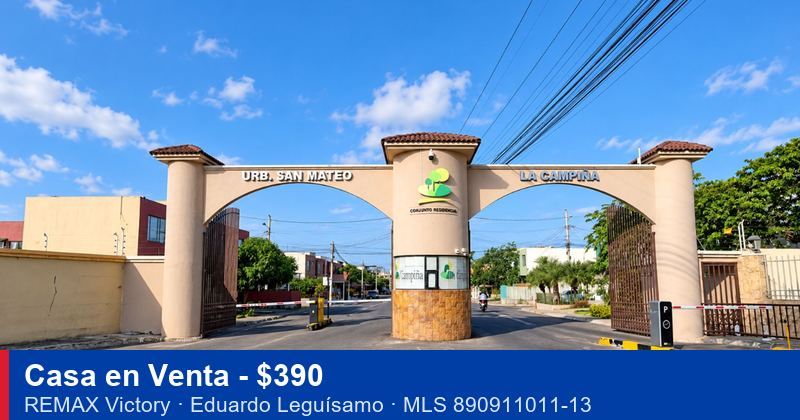
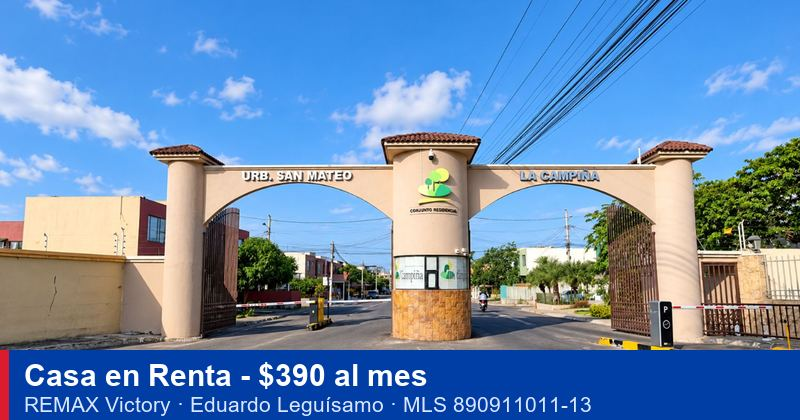
Corrige 890911011-13: es renta, no venta

Changed region(s): [[0.1875, 0.8667, 0.5312, 0.9286]]

diff --git a/fotos/890911011-13.html b/fotos/890911011-13.html
@@ -1,1 +1,1 @@
-<!DOCTYPE html><html lang="es"><head><meta charset="utf-8"><meta name="viewport" content="width=device-width, initial-scale=1"><meta name="robots" content="noindex"><title>Casa en Venta - $390 | MLS 890911011-13</title><meta property="og:type" content="website"><meta property="og:site_name" content="REMAX Victory - Eduardo Leguísamo"><meta property="og:url" content="https://remaxvictory.github.io/fotos/890911011-13"><meta property="og:title" content="📷 Fotos: Casa en Venta - $390"><meta property="og:description" content="Callejón 31 A 0, Manta, Manabí, Ecuador - 3 dorm. | 2 baños | 2 parqueos | 94 m² construcción | 94 m² terreno"><meta property="og:image" content="https://remaxvictory.github.io/img/890911011-13.jpg"><meta property="og:image:secure_url" content="https://remaxvictory.github.io/img/890911011-13.jpg"><meta property="og:image:type" content="image/jpeg"><meta property="og:image:width" content="800"><meta property="og:image:height" content="420"><meta name="twitter:card" content="summary_large_image"><meta name="description" content="Callejón 31 A 0, Manta, Manabí, Ecuador - 3 dorm. | 2 baños | 2 parqueos | 94 m² construcción | 94 m² terreno"><style>body{margin:0;font-family:Arial,Helvetica,sans-serif;background:#f4f6fa;color:#222}.cab{background:#003da5;color:#fff;padding:14px 16px;font-size:15px}.cab b{color:#fff}.w{max-width:900px;margin:auto;padding:14px}h1{font-size:21px;margin:6px 0}.dir{color:#444;margin:4px 0}.sp{margin:4px 0}.mls{color:#666;margin:4px 0}.b{display:inline-block;margin:6px 8px 6px 0;padding:12px 16px;border-radius:8px;color:#fff;text-decoration:none;font-weight:bold}.wa{background:#25d366}.pdf{background:#dc1c2e}img{width:100%;display:block;margin:0 0 8px;border-radius:6px;background:#ddd}.pie{color:#777;font-size:12px;text-align:center;padding:16px}</style></head><body><div class="cab"><b>REMAX Victory</b> - Eduardo Leguísamo, Agente Inmobiliario</div><div class="w"><h1>Casa en Venta - $390</h1><p class="dir">Callejón 31 A 0, Manta, Manabí, Ecuador</p><p class="sp">3 dorm. | 2 baños | 2 parqueos | 94 m² construcción | 94 m² terreno</p><p class="mls">MLS-ID 890911011-13</p><p><a class="b wa" href="https://wa.me/593998242588?text=Hola%20Eduardo%2C%20me%20interesa%20la%20propiedad%20MLS%20890911011-13">Escribir a Eduardo por WhatsApp</a><a class="b pdf" href="https://drive.google.com/file/d/1cyxUO9HcWFaMn1_CGEoSC2LBYryVIITM/view">Ver ficha PDF</a></p><img src="https://prod-ec-images.s3.amazonaws.com/listings/f58423a3-4ccf-48c0-87e2-bedc4b5c2aa4/original/78db6f71-6776-463d-b3e5-248f9b6588a6.jpg" loading="lazy" alt="Foto 1"><img src="https://prod-ec-images.s3.amazonaws.com/listings/f58423a3-4ccf-48c0-87e2-bedc4b5c2aa4/original/b38e66a5-b139-4f6a-a375-13c4383ba683.jpg" loading="lazy" alt="Foto 2"><img src="https://prod-ec-images.s3.amazonaws.com/listings/f58423a3-4ccf-48c0-87e2-bedc4b5c2aa4/original/30489924-2503-4c8b-89c9-e205a0647d7b.jpg" loading="lazy" alt="Foto 3"><img src="https://prod-ec-images.s3.amazonaws.com/listings/f58423a3-4ccf-48c0-87e2-bedc4b5c2aa4/original/f8b27612-47eb-42cd-95b0-89646ea841ec.jpg" loading="lazy" alt="Foto 4"><img src="https://prod-ec-images.s3.amazonaws.com/listings/f58423a3-4ccf-48c0-87e2-bedc4b5c2aa4/original/4afdd8e5-3162-453f-a1b2-cf2f9207af4b.jpg" loading="lazy" alt="Foto 5"><img src="https://prod-ec-images.s3.amazonaws.com/listings/f58423a3-4ccf-48c0-87e2-bedc4b5c2aa4/original/cb9a6da3-7052-4be0-b8f1-edcbf8087e98.jpg" loading="lazy" alt="Foto 6"><img src="https://prod-ec-images.s3.amazonaws.com/listings/f58423a3-4ccf-48c0-87e2-bedc4b5c2aa4/original/6e4866ec-eba9-45af-9ecb-8c29b67e918d.jpg" loading="lazy" alt="Foto 7"><img src="https://prod-ec-images.s3.amazonaws.com/listings/f58423a3-4ccf-48c0-87e2-bedc4b5c2aa4/original/723c9cec-324d-45fa-8ed5-d92839453eea.jpg" loading="lazy" alt="Foto 8"><img src="https://prod-ec-images.s3.amazonaws.com/listings/f58423a3-4ccf-48c0-87e2-bedc4b5c2aa4/original/8b62bd28-5166-4121-9f11-ce3696950167.jpg" loading="lazy" alt="Foto 9"><img src="https://prod-ec-images.s3.amazonaws.com/listings/f58423a3-4ccf-48c0-87e2-bedc4b5c2aa4/original/5f3062ad-433d-410e-b00d-f6ccff2da6a6.jpg" loading="lazy" alt="Foto 10"><img src="https://prod-ec-images.s3.amazonaws.com/listings/f58423a3-4ccf-48c0-87e2-bedc4b5c2aa4/original/2b5443fc-a787-4156-9e2b-f8965fa40efc.jpg" loading="lazy" alt="Foto 11"><img src="https://prod-ec-images.s3.amazonaws.com/listings/f58423a3-4ccf-48c0-87e2-bedc4b5c2aa4/original/026663f4-e688-4183-8b7b-16d2cbffdc5e.jpg" loading="lazy" alt="Foto 12"><img src="https://prod-ec-images.s3.amazonaws.com/listings/f58423a3-4ccf-48c0-87e2-bedc4b5c2aa4/original/f25d4fd9-db30-4dd6-9bc4-0095a5da01b6.jpg" loading="lazy" alt="Foto 13"><img src="https://prod-ec-images.s3.amazonaws.com/listings/f58423a3-4ccf-48c0-87e2-bedc4b5c2aa4/original/18c7fe4e-7641-40e2-9f9c-2cabc8b61db6.jpg" loading="lazy" alt="Foto 14"><img src="https://prod-ec-images.s3.amazonaws.com/listings/f58423a3-4ccf-48c0-87e2-bedc4b5c2aa4/original/016c8aa4-dcec-406d-8cd0-1fda63fee8f3.jpg" loading="lazy" alt="Foto 15"><img src="https://prod-ec-images.s3.amazonaws.com/listings/f58423a3-4ccf-48c0-87e2-bedc4b5c2aa4/original/996cc1e8-04cc-4066-bfd5-38862c7f19eb.jpg" loading="lazy" alt="Foto 16"><img src="https://prod-ec-images.s3.amazonaws.com/listings/f58423a3-4ccf-48c0-87e2-bedc4b5c2aa4/original/0331f705-33ad-450f-9584-ca3a7aa1c207.jpg" loading="lazy" alt="Foto 17"><img src="https://prod-ec-images.s3.amazonaws.com/listings/f58423a3-4ccf-48c0-87e2-bedc4b5c2aa4/original/a5c5f0a6-88d7-434f-a922-11ca5aec320c.jpg" loading="lazy" alt="Foto 18"><p><a class="b wa" href="https://wa.me/593998242588?text=Hola%20Eduardo%2C%20me%20interesa%20la%20propiedad%20MLS%20890911011-13">Agendar una visita con Eduardo</a></p></div><div class="pie">REMAX Victory · Manta, Ecuador · +593 99 824 2588</div></body></html>
+<!DOCTYPE html><html lang="es"><head><meta charset="utf-8"><meta name="viewport" content="width=device-width, initial-scale=1"><meta name="robots" content="noindex"><title>Casa en Renta - $390 al mes | MLS 890911011-13</title><meta property="og:type" content="website"><meta property="og:site_name" content="REMAX Victory - Eduardo Leguísamo"><meta property="og:url" content="https://remaxvictory.github.io/fotos/890911011-13"><meta property="og:title" content="📷 Fotos: Casa en Renta - $390 al mes"><meta property="og:description" content="Callejón 31 A 0, Manta, Manabí, Ecuador - 3 dorm. | 2 baños | 2 parqueos | 94 m² construcción | 94 m² terreno"><meta property="og:image" content="https://remaxvictory.github.io/img/890911011-13.jpg"><meta property="og:image:secure_url" content="https://remaxvictory.github.io/img/890911011-13.jpg"><meta property="og:image:type" content="image/jpeg"><meta property="og:image:width" content="800"><meta property="og:image:height" content="420"><meta name="twitter:card" content="summary_large_image"><meta name="description" content="Callejón 31 A 0, Manta, Manabí, Ecuador - 3 dorm. | 2 baños | 2 parqueos | 94 m² construcción | 94 m² terreno"><style>body{margin:0;font-family:Arial,Helvetica,sans-serif;background:#f4f6fa;color:#222}.cab{background:#003da5;color:#fff;padding:14px 16px;font-size:15px}.cab b{color:#fff}.w{max-width:900px;margin:auto;padding:14px}h1{font-size:21px;margin:6px 0}.dir{color:#444;margin:4px 0}.sp{margin:4px 0}.mls{color:#666;margin:4px 0}.b{display:inline-block;margin:6px 8px 6px 0;padding:12px 16px;border-radius:8px;color:#fff;text-decoration:none;font-weight:bold}.wa{background:#25d366}.pdf{background:#dc1c2e}img{width:100%;display:block;margin:0 0 8px;border-radius:6px;background:#ddd}.pie{color:#777;font-size:12px;text-align:center;padding:16px}</style></head><body><div class="cab"><b>REMAX Victory</b> - Eduardo Leguísamo, Agente Inmobiliario</div><div class="w"><h1>Casa en Renta - $390 al mes</h1><p class="dir">Callejón 31 A 0, Manta, Manabí, Ecuador</p><p class="sp">3 dorm. | 2 baños | 2 parqueos | 94 m² construcción | 94 m² terreno</p><p class="mls">MLS-ID 890911011-13</p><p><a class="b wa" href="https://wa.me/593998242588?text=Hola%20Eduardo%2C%20me%20interesa%20la%20propiedad%20MLS%20890911011-13">Escribir a Eduardo por WhatsApp</a><a class="b pdf" href="https://drive.google.com/file/d/1cyxUO9HcWFaMn1_CGEoSC2LBYryVIITM/view">Ver ficha PDF</a></p><img src="https://prod-ec-images.s3.amazonaws.com/listings/f58423a3-4ccf-48c0-87e2-bedc4b5c2aa4/original/78db6f71-6776-463d-b3e5-248f9b6588a6.jpg" loading="lazy" alt="Foto 1"><img src="https://prod-ec-images.s3.amazonaws.com/listings/f58423a3-4ccf-48c0-87e2-bedc4b5c2aa4/original/b38e66a5-b139-4f6a-a375-13c4383ba683.jpg" loading="lazy" alt="Foto 2"><img src="https://prod-ec-images.s3.amazonaws.com/listings/f58423a3-4ccf-48c0-87e2-bedc4b5c2aa4/original/30489924-2503-4c8b-89c9-e205a0647d7b.jpg" loading="lazy" alt="Foto 3"><img src="https://prod-ec-images.s3.amazonaws.com/listings/f58423a3-4ccf-48c0-87e2-bedc4b5c2aa4/original/f8b27612-47eb-42cd-95b0-89646ea841ec.jpg" loading="lazy" alt="Foto 4"><img src="https://prod-ec-images.s3.amazonaws.com/listings/f58423a3-4ccf-48c0-87e2-bedc4b5c2aa4/original/4afdd8e5-3162-453f-a1b2-cf2f9207af4b.jpg" loading="lazy" alt="Foto 5"><img src="https://prod-ec-images.s3.amazonaws.com/listings/f58423a3-4ccf-48c0-87e2-bedc4b5c2aa4/original/cb9a6da3-7052-4be0-b8f1-edcbf8087e98.jpg" loading="lazy" alt="Foto 6"><img src="https://prod-ec-images.s3.amazonaws.com/listings/f58423a3-4ccf-48c0-87e2-bedc4b5c2aa4/original/6e4866ec-eba9-45af-9ecb-8c29b67e918d.jpg" loading="lazy" alt="Foto 7"><img src="https://prod-ec-images.s3.amazonaws.com/listings/f58423a3-4ccf-48c0-87e2-bedc4b5c2aa4/original/723c9cec-324d-45fa-8ed5-d92839453eea.jpg" loading="lazy" alt="Foto 8"><img src="https://prod-ec-images.s3.amazonaws.com/listings/f58423a3-4ccf-48c0-87e2-bedc4b5c2aa4/original/8b62bd28-5166-4121-9f11-ce3696950167.jpg" loading="lazy" alt="Foto 9"><img src="https://prod-ec-images.s3.amazonaws.com/listings/f58423a3-4ccf-48c0-87e2-bedc4b5c2aa4/original/5f3062ad-433d-410e-b00d-f6ccff2da6a6.jpg" loading="lazy" alt="Foto 10"><img src="https://prod-ec-images.s3.amazonaws.com/listings/f58423a3-4ccf-48c0-87e2-bedc4b5c2aa4/original/2b5443fc-a787-4156-9e2b-f8965fa40efc.jpg" loading="lazy" alt="Foto 11"><img src="https://prod-ec-images.s3.amazonaws.com/listings/f58423a3-4ccf-48c0-87e2-bedc4b5c2aa4/original/026663f4-e688-4183-8b7b-16d2cbffdc5e.jpg" loading="lazy" alt="Foto 12"><img src="https://prod-ec-images.s3.amazonaws.com/listings/f58423a3-4ccf-48c0-87e2-bedc4b5c2aa4/original/f25d4fd9-db30-4dd6-9bc4-0095a5da01b6.jpg" loading="lazy" alt="Foto 13"><img src="https://prod-ec-images.s3.amazonaws.com/listings/f58423a3-4ccf-48c0-87e2-bedc4b5c2aa4/original/18c7fe4e-7641-40e2-9f9c-2cabc8b61db6.jpg" loading="lazy" alt="Foto 14"><img src="https://prod-ec-images.s3.amazonaws.com/listings/f58423a3-4ccf-48c0-87e2-bedc4b5c2aa4/original/016c8aa4-dcec-406d-8cd0-1fda63fee8f3.jpg" loading="lazy" alt="Foto 15"><img src="https://prod-ec-images.s3.amazonaws.com/listings/f58423a3-4ccf-48c0-87e2-bedc4b5c2aa4/original/996cc1e8-04cc-4066-bfd5-38862c7f19eb.jpg" loading="lazy" alt="Foto 16"><img src="https://prod-ec-images.s3.amazonaws.com/listings/f58423a3-4ccf-48c0-87e2-bedc4b5c2aa4/original/0331f705-33ad-450f-9584-ca3a7aa1c207.jpg" loading="lazy" alt="Foto 17"><img src="https://prod-ec-images.s3.amazonaws.com/listings/f58423a3-4ccf-48c0-87e2-bedc4b5c2aa4/original/a5c5f0a6-88d7-434f-a922-11ca5aec320c.jpg" loading="lazy" alt="Foto 18"><p><a class="b wa" href="https://wa.me/593998242588?text=Hola%20Eduardo%2C%20me%20interesa%20la%20propiedad%20MLS%20890911011-13">Agendar una visita con Eduardo</a></p></div><div class="pie">REMAX Victory · Manta, Ecuador · +593 99 824 2588</div></body></html>

diff --git a/pdf/890911011-13.html b/pdf/890911011-13.html
@@ -1,1 +1,1 @@
-<!DOCTYPE html><html lang="es"><head><meta charset="utf-8"><meta name="robots" content="noindex"><meta name="viewport" content="width=device-width, initial-scale=1"><title>Ficha PDF - MLS 890911011-13</title><meta property="og:type" content="website"><meta property="og:site_name" content="REMAX Victory - Eduardo Leguísamo"><meta property="og:url" content="https://remaxvictory.github.io/pdf/890911011-13"><meta property="og:title" content="📄 Ficha PDF: Casa en Venta - $390"><meta property="og:description" content="Callejón 31 A 0, Manta, Manabí, Ecuador - 3 dorm. | 2 baños | 2 parqueos | 94 m² construcción | 94 m² terreno"><meta property="og:image" content="https://remaxvictory.github.io/img/890911011-13.jpg"><meta property="og:image:secure_url" content="https://remaxvictory.github.io/img/890911011-13.jpg"><meta property="og:image:type" content="image/jpeg"><meta property="og:image:width" content="800"><meta property="og:image:height" content="420"><meta name="twitter:card" content="summary_large_image"><meta name="description" content="Callejón 31 A 0, Manta, Manabí, Ecuador - 3 dorm. | 2 baños | 2 parqueos | 94 m² construcción | 94 m² terreno"><meta http-equiv="refresh" content="0; url=https://drive.google.com/file/d/1cyxUO9HcWFaMn1_CGEoSC2LBYryVIITM/view"><script>location.replace("https://drive.google.com/file/d/1cyxUO9HcWFaMn1_CGEoSC2LBYryVIITM/view")</script></head><body style="font-family:Arial;padding:20px"><p>Abriendo la ficha PDF de la propiedad MLS 890911011-13…</p><p><a href="https://drive.google.com/file/d/1cyxUO9HcWFaMn1_CGEoSC2LBYryVIITM/view">Toque aquí si no se abre</a></p></body></html>
+<!DOCTYPE html><html lang="es"><head><meta charset="utf-8"><meta name="robots" content="noindex"><meta name="viewport" content="width=device-width, initial-scale=1"><title>Ficha PDF - MLS 890911011-13</title><meta property="og:type" content="website"><meta property="og:site_name" content="REMAX Victory - Eduardo Leguísamo"><meta property="og:url" content="https://remaxvictory.github.io/pdf/890911011-13"><meta property="og:title" content="📄 Ficha PDF: Casa en Renta - $390 al mes"><meta property="og:description" content="Callejón 31 A 0, Manta, Manabí, Ecuador - 3 dorm. | 2 baños | 2 parqueos | 94 m² construcción | 94 m² terreno"><meta property="og:image" content="https://remaxvictory.github.io/img/890911011-13.jpg"><meta property="og:image:secure_url" content="https://remaxvictory.github.io/img/890911011-13.jpg"><meta property="og:image:type" content="image/jpeg"><meta property="og:image:width" content="800"><meta property="og:image:height" content="420"><meta name="twitter:card" content="summary_large_image"><meta name="description" content="Callejón 31 A 0, Manta, Manabí, Ecuador - 3 dorm. | 2 baños | 2 parqueos | 94 m² construcción | 94 m² terreno"><meta http-equiv="refresh" content="0; url=https://drive.google.com/file/d/1cyxUO9HcWFaMn1_CGEoSC2LBYryVIITM/view"><script>location.replace("https://drive.google.com/file/d/1cyxUO9HcWFaMn1_CGEoSC2LBYryVIITM/view")</script></head><body style="font-family:Arial;padding:20px"><p>Abriendo la ficha PDF de la propiedad MLS 890911011-13…</p><p><a href="https://drive.google.com/file/d/1cyxUO9HcWFaMn1_CGEoSC2LBYryVIITM/view">Toque aquí si no se abre</a></p></body></html>
